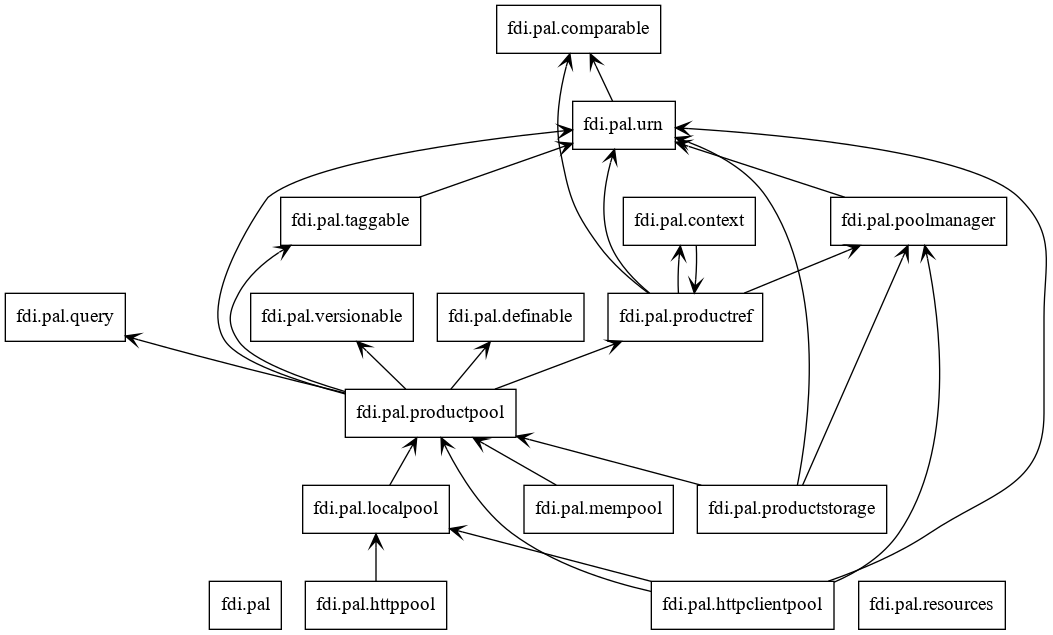
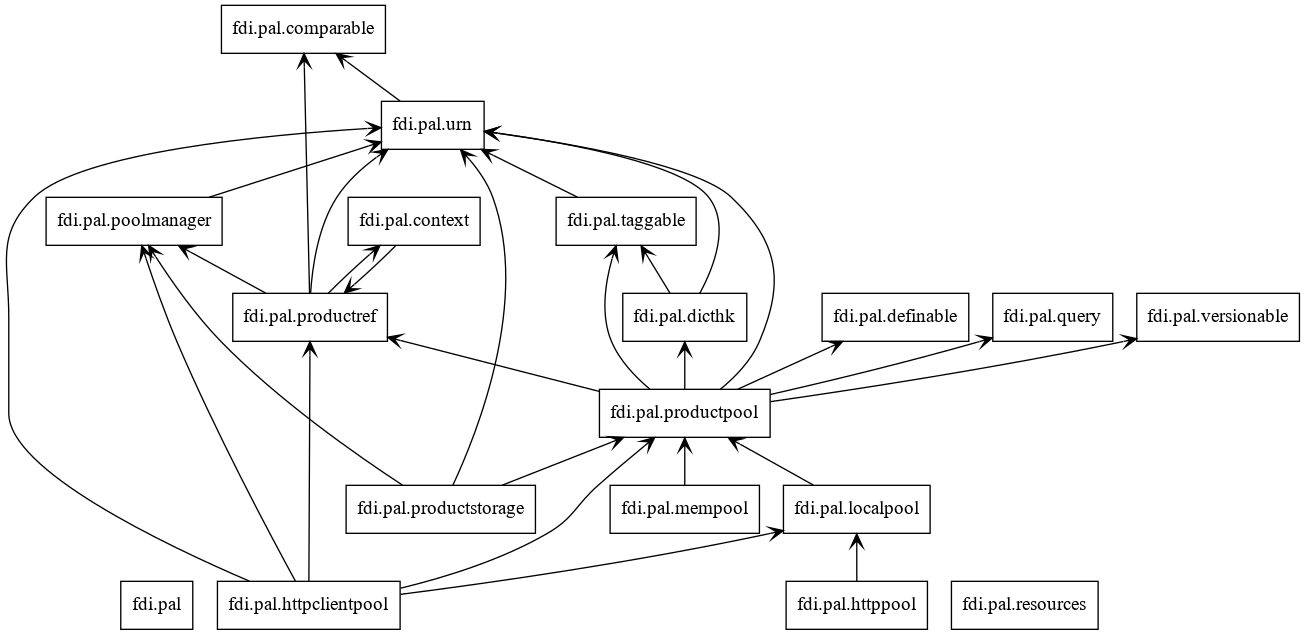
dockerfile update. sort out pnsconfig, update docs

diff --git a/fdi/pns/pnsconfig.py b/fdi/pns/pnsconfig.py
@@ -4,19 +4,20 @@ import logging
 import getpass
 import os
 
-# logging level for server or possibly by client
-pnsconfig = dict(logginglevel=logging.DEBUG)
+pnsconfig = {}
 
-# pool URL look up table
+# look-up table for PoolManager (therefor HttpClient) to get pool URLs eith Pool ID (poolname)
 poolurl_of = {
-    'e2e': 'http://10.0.10.114:9885/v0.6/e2e'
+    'svom': 'http://10.0.10.114:9885/v0.6/svom'
 }
 pnsconfig['lookup'] = poolurl_of
 
+###########################################
+# Configuration for Servers running locally.
 # components of the default poolurl
 
-# the key must be uppercased
-FLASK_CONF = pnsconfig
+# the key (variable names) must be uppercased for Flask server
+# FLASK_CONF = pnsconfig
 
 # Te be edited automatically with sed -i 's/^EXTHOST =.*$/EXTHOST = xxx/g' file
 EXTHOST = '172.17.0.1'
@@ -27,15 +28,28 @@ pnsconfig['api_version'] = 'v0.6'
 pnsconfig['baseurl'] = '/' + pnsconfig['api_version']
 
 
-# base url for pool, you must have permission of this path, for example : /home/user/Documents
-# this base pool path will be added at the beginning of your pool urn when you init a pool like:
-# pstore = PoolManager.getPool('/demopool_user'), it will create a pool at pc['base_poolpath']/demopool_user/
-# User can disable  basepoolpath by: pstore = PoolManager.getPool('/demopool_user', use_default_poolpath=False). Also note that pool URL takes priority if given to getPool().
+# default path of working directories for LocalPools.
 pnsconfig['base_poolpath'] = '/tmp'
+# default path of working directories for HttpPool server.
 pnsconfig['server_poolpath'] = '/var/www/httppool_server/data'  # For server
+# you must have write permission of above paths.
+# For example : /home/user/Documents
+# will be added at the beginning of request pool ID 'my_pool'
+# when you init a server pool like:
+# ``pstore = PoolManager.getPool('my_pool') without poolurl,
+# the poolurl will become 'file:///home/user/Documents/my_pool'.
+# creating a pool at pc['base_poolpath']
+# See document of :meth:'PoolManager.getPool'
+
+# logging level for server
+pnsconfig['logginglevel'] = logging.DEBUG
+# for HttpPool
 pnsconfig['defaultpool'] = 'pool_default'
 
-conf = 'server_test'
+# choose from pre-defined.
+conf = ['dev', 'server_test', 'external'][0]
+
+# modify
 if conf == 'dev':
     # username, passwd, flask ip, flask port
     pnsconfig['node'] = {'username': 'foo',
@@ -45,20 +59,19 @@ if conf == 'dev':
     pnsconfig['serveruser'] = 'mh'
     # PTS app permission user
     pnsconfig['ptsuser'] = 'mh'
-    # on server
-    home = '/cygdrive/c/Users/mh'
     pnsconfig['base_poolpath'] = '/tmp'
     pnsconfig['server_poolpath'] = '/tmp/data'  # For server
-    pnsconfig['defaultpool'] = 'pool_default'
+    # on pns server
+    home = '/cygdrive/c/Users/mh'
+
 elif conf == 'server_test':
     pnsconfig['node'] = {'username': 'foo', 'password': 'bar',
-                         'host': '127.0.0.1', 'port': 9884}
-
+                         'host': '172.0.17.9', 'port': 9884}
     # server permission user
     pnsconfig['serveruser'] = 'apache'
     # PTS app permission user
     pnsconfig['ptsuser'] = 'pns'
-    # on server
+    # on pns server
     home = '/home'
 elif conf == 'external':
     # wsgi behind apach2. cannot use env vars
@@ -69,7 +82,7 @@ elif conf == 'external':
     pnsconfig['serveruser'] = 'apache'
     # PTS app permission user
     pnsconfig['ptsuser'] = 'pns'
-    # on server
+    # on pns server
     home = '/home'
 
 pnsconfig['auth_user'] = pnsconfig['node']['username']
@@ -82,7 +95,7 @@ pnsconfig['mysql'] = {'host': 'ssa-mysql', 'port': 3306,
                       'database': 'users'}
 
 
-# import user classes
+# import user classes for server.
 # See document in :class:`Classes`
 pnsconfig['userclasses'] = ''
 

diff --git a/fdi/pal/poolmanager.py b/fdi/pal/poolmanager.py
@@ -26,7 +26,7 @@ This is done by calling the getPool() method, which will return an existing pool
     """
     # Global centralized dict that returns singleton -- the same -- pool for the same ID.
     _GlobalPoolList = {}
-    # maps scheme to default place\poolpath
+    # maps scheme to default place/poolpath
     p = pc['node']['host']+':'+str(pc['node']['port'])+pc['baseurl']
     PlacePaths = {
         'file': pc['base_poolpath'],
@@ -44,38 +44,36 @@ This is done by calling the getPool() method, which will return an existing pool
         Returns the pool object if the pool is registered. Creates the pool if it does not already exist. the same poolname-path always get the same pool.
 
         poolname: name of the pool.
-        poolurl: if given the poolpath, scheme, place will be derived from it. if not given, PoolManager.PlacePaths[scheme] is used to get poolplace and poolpath, with scheme set to 'file'. 
-If poolname is missing it is derived from poolurl; if poolurl is also absent, DEFAULT_POOL is assumed.
+        poolurl: if given the poolpath, scheme, place will be derived from it. if not given, ``PoolManager.PlacePaths[scheme]`` is used to get poolplace and poolpath, with scheme set to 'file'. 
+If poolname is missing it is derived from poolurl; if poolurl is also absent, a `localPool` by that name is created named ``poolmanager.DEFAULT_POOL`` (="pool_<username>").
         kwds: passed to pool instanciation arg-list.
 
         """
         # logger.debug('GPL ' + str(id(cls._GlobalPoolList)) +
         #             str(cls._GlobalPoolList) + ' PConf ' + str(cls.PlacePaths))
 
-        poolpath = None
         if poolname is None:
             if poolurl:
                 # the last segment will be the poolname
-                poolpath, schm, pl, poolname = parse_poolurl(poolurl)
+                pp, schm, pl, poolname = parse_poolurl(poolurl)
             else:
                 schm = 'file'
                 poolname = DEFAULT_POOL
-                poolpath = cls.PlacePaths[schm]
-                poolurl = schm + '://' + poolpath + '/' + poolname
-                logger.debug('DEFAULT_MEM_POOL assumed: %s.' % poolurl)
-            if cls.isLoaded(poolname):
-                return cls._GlobalPoolList[poolname]
-        else:
-            if cls.isLoaded(poolname):
-                return cls._GlobalPoolList[poolname]
-            if poolurl:
-                poolpath, schm, pl, pn = parse_poolurl(poolurl)
-            else:
-                schm = 'file'
-                poolpath = cls.PlacePaths[schm]
-                poolurl = schm + '://' + poolpath + '/' + poolname
-                logger.debug('PlacePaths is used: %s.' % poolurl)
+                place_poolpath = cls.PlacePaths[schm]
+                poolurl = schm + '://' + place_poolpath + '/' + poolname
+                logger.debug('DEFAULT_POOL assumed: %s.' % poolurl)
+        if cls.isLoaded(poolname):
+            return cls._GlobalPoolList[poolname]
 
+        if poolurl:
+            pp, schm, pl, pn = parse_poolurl(poolurl)
+        else:
+            schm = 'file'
+            place_poolpath = cls.PlacePaths[schm]
+            poolurl = schm + '://' + place_poolpath + '/' + poolname
+            logger.debug('PlacePaths is used: %s.' % poolurl)
+
+        # now we have scheme, poolname, poolurl
         if schm == 'file':
             from . import localpool
             p = localpool.LocalPool(

diff --git a/fdi/utils/getconfig.py b/fdi/utils/getconfig.py
@@ -11,8 +11,11 @@ logger = logging.getLogger(__name__)
 
 
 @functools.lru_cache(5)
-def getConfig(poolname=None, conf='pns'):
-    """ Imports a dict named [conf]config defined in ~/.config/[conf]local.py
+def getConfig(name=None, conf='pns'):
+    """ Imports a dict named [conf]config defined in ~/.config/[conf]local.py.
+
+    name: if given the return is poolurl in ``poolurl_of`` or a poolurl constructed from <conf>config.
+    conf: configuration ID. default 'pns', so the file is 'pnsconfig'.
     """
     # default configuration is provided. Copy pnsconfig.py to ~/.config/pnslocal.py
     env = expanduser(expandvars('$HOME'))
@@ -28,18 +31,18 @@ def getConfig(poolname=None, conf='pns'):
         c = __import__(conf+'local', globals(), locals(), [stem], 0)
         logger.debug('Reading %s/%s.py done.' % (confp, stem))
         config = c.__dict__[stem]
-        if poolname:
+        if name:
             urlof = c.__dict__['poolurl_of']
-            if poolname in urlof:
-                return urlof[poolname]
+            if name in urlof:
+                return urlof[name]
             else:
-                return config['httphost'] + config['baseurl'] + '/' + poolname
+                return config['httphost'] + config['baseurl'] + '/' + name
         else:
             return config
     except ModuleNotFoundError as e:
         logger.warning(str(
             e) + '. Use default config in the package, such as fdi/pns/pnsconfig.py. Copy it to ~/.config/[package]local.py and make persistent customization there.')
-        if poolname:
+        if name:
             return None
         else:
             return {}

diff --git a/fdi/pal/localpool.py b/fdi/pal/localpool.py
@@ -26,12 +26,12 @@ else:
     from urlparse import urlparse, quote, unquote
 
 
-def wipeLocal(poolpath):
+def wipeLocal(path):
     """
     does the scheme-specific remove-all
     """
     # logger.debug()
-    pp = poolpath
+    pp = path
     if pp == '/':
         raise(ValueError('Do not remove root directory.'))
 

diff --git a/docs/sphinx/api/fdi/fdi.pal.rst b/docs/sphinx/api/fdi/fdi.pal.rst
@@ -41,6 +41,14 @@ fdi.pal.definable module
    :undoc-members:
    :show-inheritance:
 
+fdi.pal.dicthk module
+---------------------
+
+.. automodule:: fdi.pal.dicthk
+   :members:
+   :undoc-members:
+   :show-inheritance:
+
 fdi.pal.httpclientpool module
 -----------------------------
 
